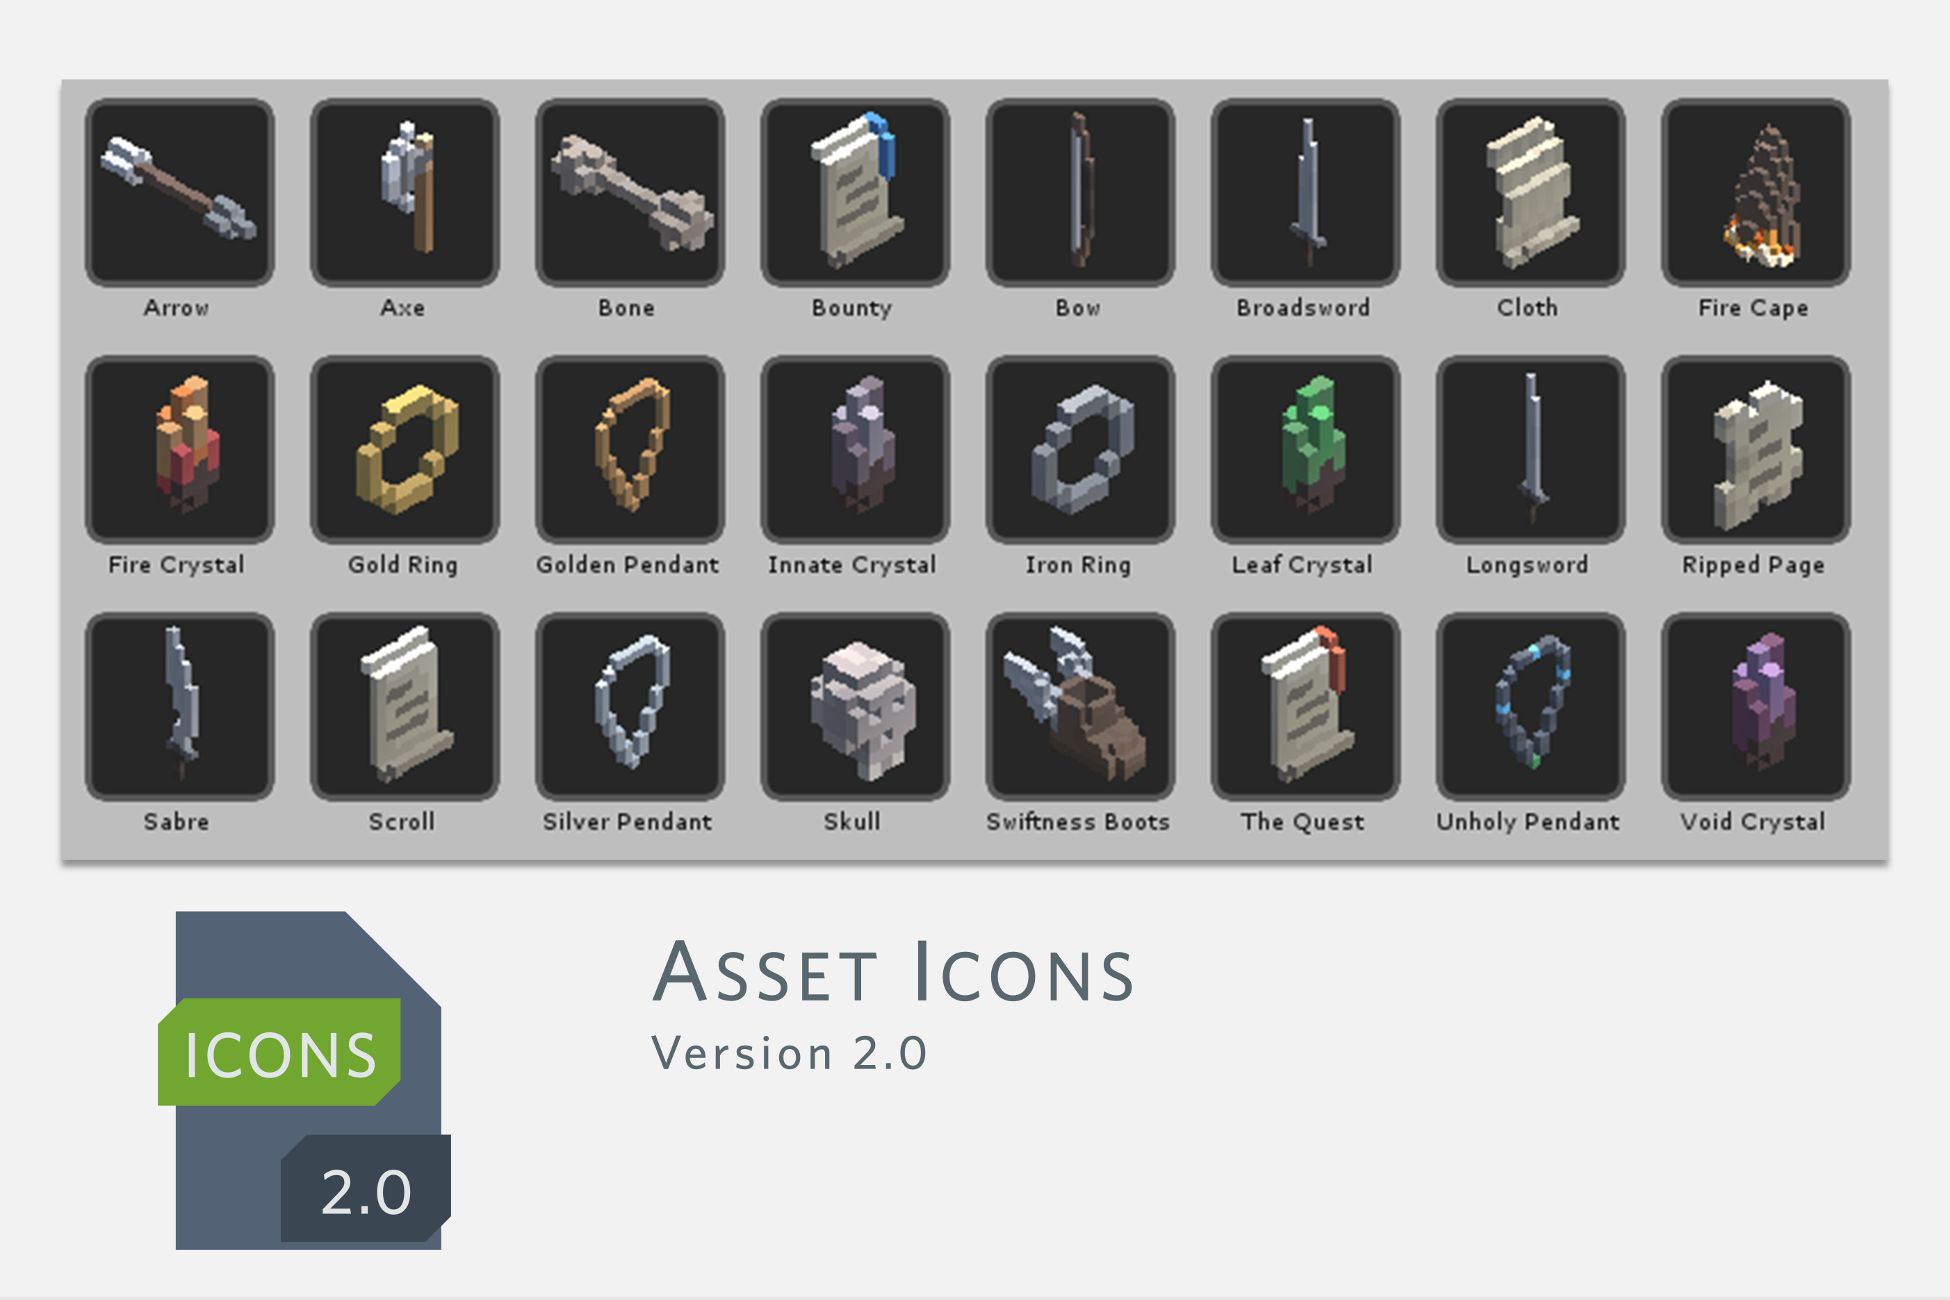
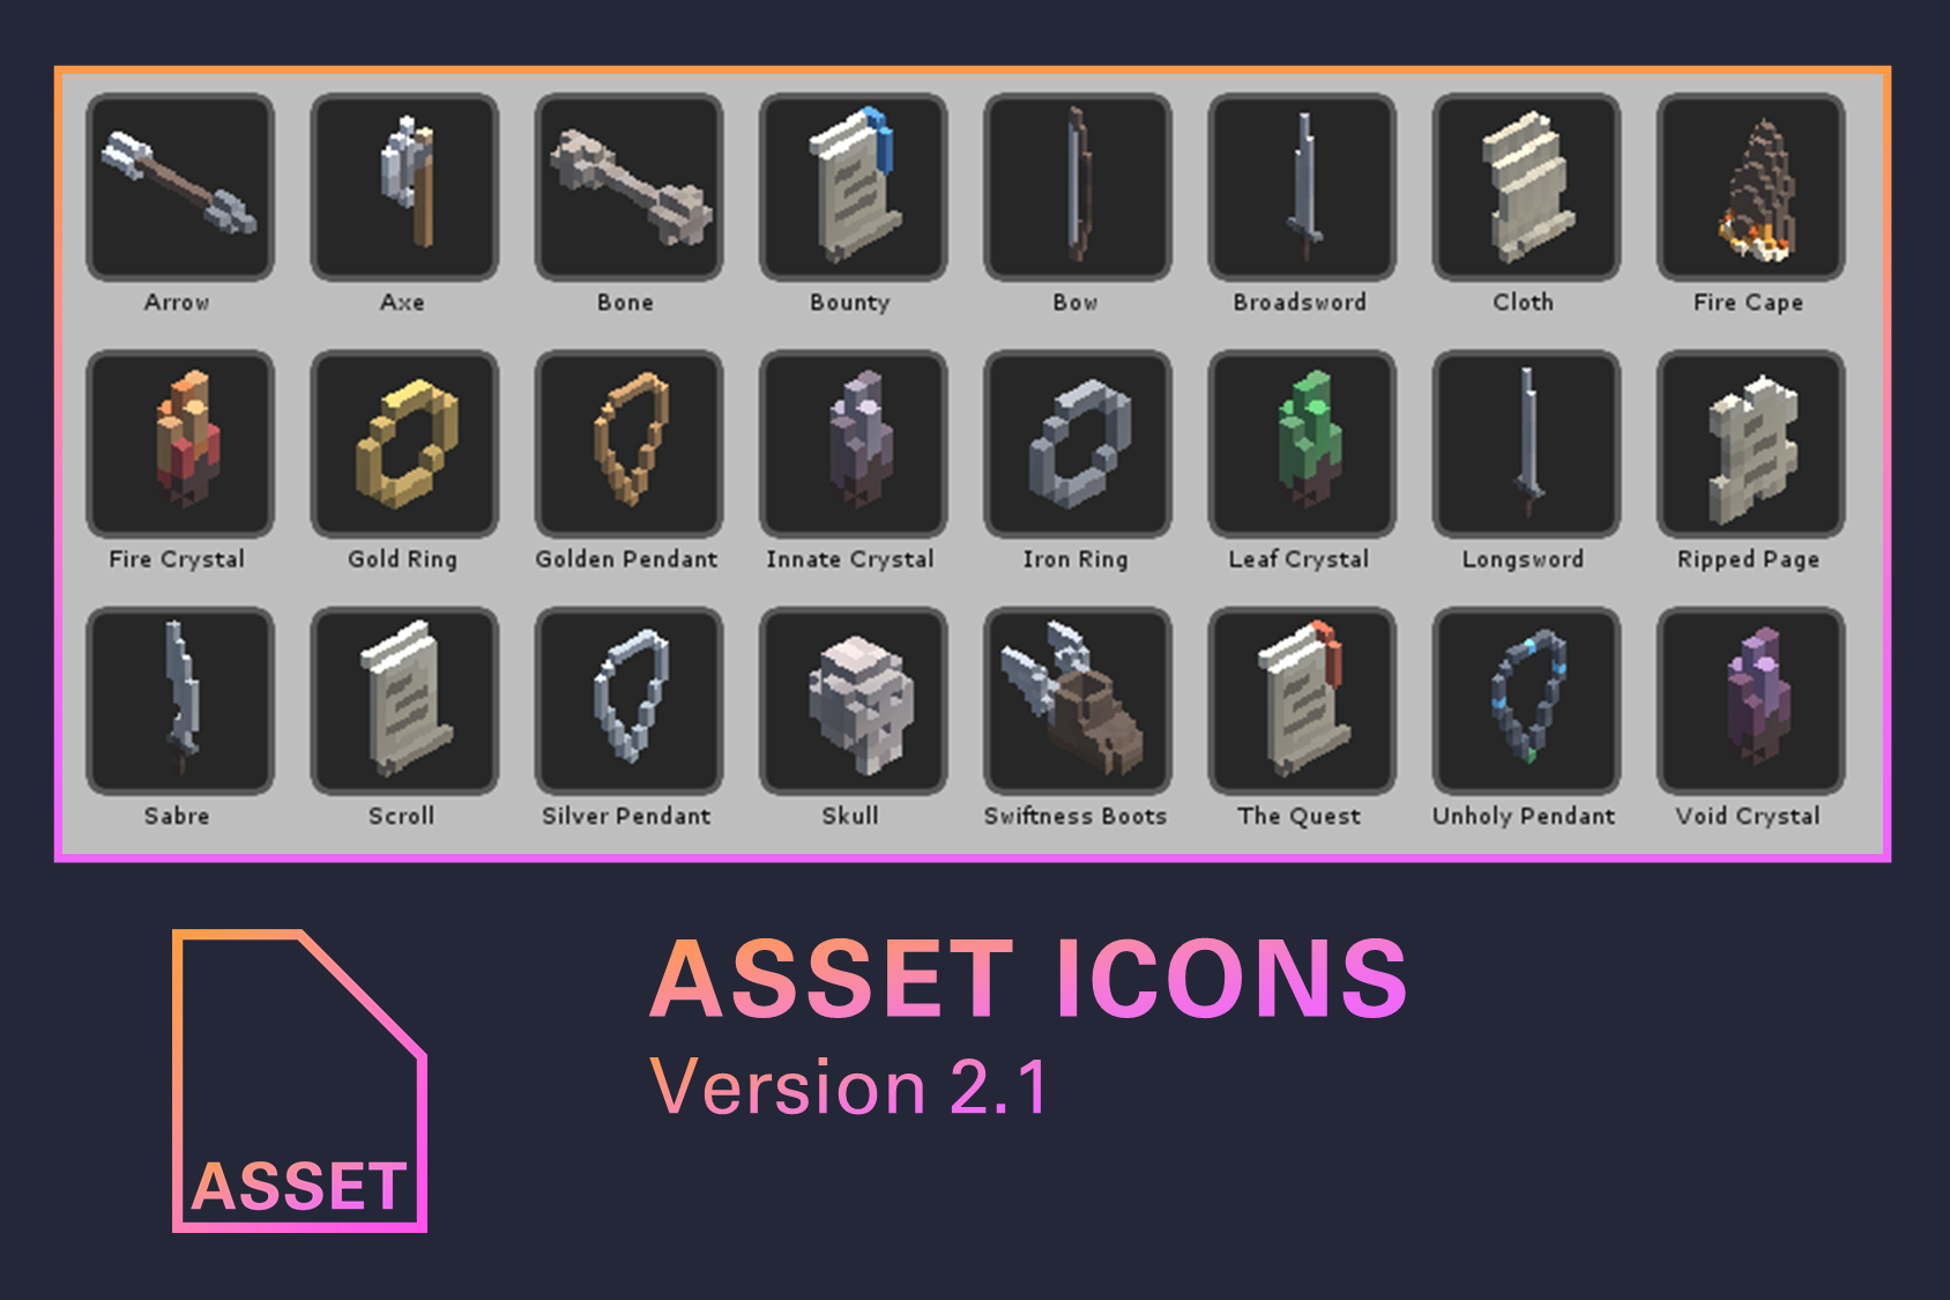
✨ Updated promotional images for 2.1 release

diff --git a/README.md b/README.md
@@ -2,12 +2,15 @@
 
 # AssetIcons
 
-[![bugs](https://img.shields.io/github/issues/Fydar/AssetIcons/🐛%20bug?color=c66649&label=🐛%20bugs
-)](https://github.com/Fydar/AssetIcons/issues?q=is%3Aissue+is%3Aopen+label%3Abug) [![Documentation](https://img.shields.io/badge/-📄%20Documentation-4593c4.svg)](https://fydar.github.io/AssetIcons/Documentation#home) [![Documentation](https://img.shields.io/badge/Asset%20Store-%249.00-333333.svg?logo=unity)](https://assetstore.unity.com/packages/tools/gui/asseticons-100547)
+[![bugs](https://img.shields.io/github/issues/Fydar/AssetIcons/🐛%20bug?color=c66649&label=bugs
+)](https://github.com/Fydar/AssetIcons/issues?q=is%3Aissue+is%3Aopen+label%3Abug) [![Documentation](https://img.shields.io/badge/-📄%20Documentation-4593c4.svg)](https://fydar.github.io/AssetIcons/Documentation#home) [![Documentation](https://img.shields.io/badge/Asset%20Store-%2412.00-333333.svg?logo=unity)](https://assetstore.unity.com/packages/tools/gui/asseticons-100547)
 
 Organise your projects and manage your assets with a single attribute.
 
 ```csharp
+using AssetIcons;
+using UnityEngine;
+
 [CreateAssetMenu]
 public class ItemInformation : ScriptableObject
 {
@@ -16,15 +19,18 @@ public class ItemInformation : ScriptableObject
 }
 ```
 
-[![Available on the Unity Asset Store](./docs/img/buy-now_360x136.png)](https://assetstore.unity.com/packages/tools/gui/asseticons-100547)
+[![Available on the Unity Asset Store](./docs/img/buy-now_360x93.png)](https://assetstore.unity.com/packages/tools/gui/asseticons-100547)
 
 ## Features
 
 - Dynamic icons for ScriptableObjects
-- Customize icons with attribute-defined styles
-- Configurable
-- Easy to use
 - Custom icons per file extension
+- Customize icons with attribute-defined styles
+- Easy-to-use
+- [High-quality documentation](https://fydar.github.io/AssetIcons/Documentation#home)
+- [Public issue tracker](https://github.com/Fydar/AssetIcons/issues)
+- In-editor update checker
+- Error detection and reporting
 - Support for Unity's Collaborate overlay
 - Support for Unity's Version Control overlay
 
